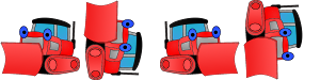
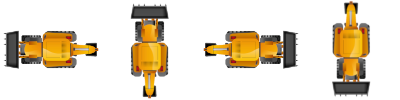
Digger has been transformed to renovation

diff --git a/assets/www/js/scenes/main.js b/assets/www/js/scenes/main.js
@@ -14,8 +14,12 @@ Crafty.scene("main", function() {
     for(var i = 0; i*Settings.poligon < Settings.width; i++) {
         console.log("Main scene ground")
         for(var j = 0; j*Settings.poligon < Settings.height; j++) {
-	    console.log("Main scene ground")
             Crafty.e("Sand").attr({x: i * Settings.poligon, y: j * Settings.poligon});
+        }
+    }
+    for(var i = 0; (i+1)*Settings.poligon < Settings.width; i++) {
+        console.log("Main scene ground")
+        for(var j = 0; (j+1)*Settings.poligon < Settings.height; j++) {
             if ((i + j > 0) && (Crafty.math.randomInt(0, 6) < 4)) {
                         Crafty.e("Ground").attr({
                             x: i * Settings.poligon,
@@ -32,13 +36,28 @@ Crafty.scene("main", function() {
                     y: j * Settings.poligon,// + 20,
                     w: Settings.poligon,// - 20,
                     h: Settings.poligon// - 20
-                    });
+                    }).update();
                 stonesCoords += joinCoord(i, j);
             }
-
         }
     }
     
+    if (Settings.level == 1) {
+        Crafty.e("Cargo").attr({
+            x: 1 * Settings.poligon,// + 10,
+            y: 0 * Settings.poligon,// + 10,
+            w: Settings.poligon,// - 20,
+            h: Settings.poligon// - 20
+            });
+    } else {
+        Crafty.e("Cargo").attr({
+            x: Crafty.math.randomInt(0, Settings.width / Settings.poligon - 1) * Settings.poligon,// + 10,
+            y: Crafty.math.randomInt(0, Settings.height / Settings.poligon - 1) * Settings.poligon,// + 10,
+            w: Settings.poligon,// - 20,
+            h: Settings.poligon// - 20
+            });
+    } 
+
     if (Settings.level % 2) {
         var x = 0;
         var y = 0;
@@ -58,10 +77,9 @@ Crafty.scene("main", function() {
 
     while (flower_count > 0) {
         //generate the grass along the x-axis
-        for(var i = 1; i*Settings.poligon < Settings.width; i++) {
-            //generate the grass along the y-axis
-	    console.log("Main scene flowers")
-            for(var j = 1; j*Settings.poligon < Settings.height; j++) {
+        for(var i = 0; (i+1)*Settings.poligon < Settings.width; i++) {
+            console.log("Main scene ground")
+            for(var j = 0; (j+1)*Settings.poligon < Settings.height; j++) {
                 if (stonesCoords.search(joinCoord(i, j)) >= 0)
                     continue;
                 if ((flower_count > 0) && (!Crafty.math.randomInt(0, 5))) {
@@ -84,6 +102,22 @@ Crafty.scene("main", function() {
             }
         }
     }
+
+    Crafty.e(Settings.sound ? "SoundButtonOff" : "SoundButtonOn").attr({
+        x: Settings.width - 2 * Settings.poligon,
+        y: Settings.height - 2 * Settings.poligon,
+        w: Settings.poligon,
+        h: Settings.poligon,
+        z: 1
+    });
+
+    Crafty.e("ResetButton").attr({
+        x: Settings.width - 3 * Settings.poligon,
+        y: Settings.height - 2 * Settings.poligon,
+        w: Settings.poligon,
+        h: Settings.poligon,
+        z: 1
+    });
 
     Crafty.e("Player").attr({x: 0, y: 0, z: 1, w: Settings.poligon, h: Settings.poligon});
 

diff --git a/assets/www/js/game.js b/assets/www/js/game.js
@@ -1,9 +1,9 @@
 var Settings = {
     width: 800, // ширина игрового поля
     height: 600, // высота
-    poligon: 80, // размер полигона 16x16
+    poligon: 100, // размер полигона 16x16
     scope: 0,
-    level: 2, // текущий уровень
+    level: 0, // текущий уровень
     speed: 1, // current monster speed
     flower_count: 0, // цветоков на уровне
     sound: true
@@ -19,6 +19,7 @@ var AllScripts = [
     // objects
     'js/objects/flower',
     'js/objects/stone',
+    'js/objects/cargo',
     'js/objects/ground',
     'js/objects/sand',
     'js/objects/cross',
@@ -30,6 +31,9 @@ var AllScripts = [
     'js/objects/monster',
     'js/objects/monster_sprite',
     'js/objects/scope',
+    'js/objects/resetbutton',
+    'js/objects/soundbuttonoff',
+    'js/objects/soundbuttonon',
     'js/objects/bonus',
     // scenes
     'js/scenes/loading',
@@ -57,18 +61,28 @@ require(AllScripts, function() {
         monster: [0,0]
     });
     // подгружаем спрайт
-    Crafty.sprite(Settings.poligon, "images/ground.jpg", {
+    Crafty.sprite(Settings.poligon, "images/soundon.png", {
+        soundon: [0,0]
+    });
+    Crafty.sprite(Settings.poligon, "images/soundoff.png", {
+        soundoff: [0,0]
+    });
+    Crafty.sprite(Settings.poligon, "images/restart.png", {
+        restart: [0,0]
+    });
+    // подгружаем спрайт
+    Crafty.sprite(Settings.poligon, "images/ground.png", {
         ground: [0,0]
     });
     Crafty.sprite(Settings.poligon, "images/sand.jpg", {
         sand: [0,0]
     });
     // подгружаем спрайт
-    Crafty.sprite(Settings.poligon, "images/granit1.jpg", {
-        granit1: [0,0]
+    Crafty.sprite(Settings.poligon, "images/cargo1.jpg", {
+        cargo1: [0,0]
     });
-    Crafty.sprite(Settings.poligon, "images/granit2.jpg", {
-        granit2: [0,0]
+    Crafty.sprite(Settings.poligon, "images/house.png", {
+        house: [0,0]
     });
     Crafty.sprite(Settings.poligon, "images/bag.png", {
         bag: [0,0]

diff --git a/assets/www/js/objects/cargo.js b/assets/www/js/objects/cargo.js
@@ -1,17 +1,16 @@
-Crafty.c('Stone', {
+Crafty.c('Cargo', {
     init: function() {
         this.requires("2D");
         this.requires("Canvas");
-        this.requires("house");
-        this.requires("hard_stone");
+        // this.requires("Gravity");
+        this.requires("cargo1");
         this.requires("hard_object");
-        this.requires("SpriteAnimation");
+        this.requires("hard_stone");
+        this.requires("Tween");
 
-        num = Crafty.math.randomInt(0, 7)
-        console.log('Crafty random: ' +  num)
-        this.animate("first", num, 0, num);
+        // this.gravity("hard_object");
         this.attr({x: 0, y: 0, z: 2, w: Settings.poligon, h: Settings.poligon});
-        this.animate("first", 1);        
+
     },
         
     isCanMoveTo: function(x, y) {
@@ -22,8 +21,5 @@ Crafty.c('Stone', {
         });
 
         return !isCollision
-    },
-    update: function() {
-        this.animate("first", 1);
     }
 });

diff --git a/assets/www/js/objects/soundbuttonoff.js b/assets/www/js/objects/soundbuttonoff.js
@@ -1,0 +1,26 @@
+Crafty.c('SoundButtonOff', {
+    init: function() {
+        this.requires("2D");
+        this.requires("DOM");
+        this.requires("soundon");
+        this.requires("Mouse");
+        this.attr({ w: 100, h: 100 })
+        this.bind("Click", function(){
+            console.log("OnClick");
+            this.Click()
+        });
+    },
+    Click: function() {
+        console.log("Sound on");
+        Sound().soundSwitch()
+        Settings.sound = false
+        Crafty.e("SoundButtonOn").attr({x: this.x, y: this.y});
+        this.clean();
+    },
+
+    clean: function () {
+        this.removeComponent('SoundButtonOff');
+        this.destroy();
+    }
+
+});

diff --git a/assets/www/js/objects/soundbuttonon.js b/assets/www/js/objects/soundbuttonon.js
@@ -1,0 +1,26 @@
+Crafty.c('SoundButtonOn', {
+    init: function() {
+        this.requires("2D");
+        this.requires("DOM");
+        this.requires("soundoff");
+        this.requires("Mouse");
+        this.attr({ w: 100, h: 100 })
+        this.bind("Click", function(){
+            console.log("OnClick");
+            this.Click()
+        });
+    },
+    Click: function() {
+        Sound().soundSwitch()
+        Settings.sound = true
+        console.log("Sound off");
+        Crafty.e("SoundButtonOff").attr({x: this.x, y: this.y});
+        this.clean();
+    },
+
+    clean: function () {
+        this.removeComponent('SoundButtonOn');
+        this.destroy();
+    }
+
+});

diff --git a/assets/www/js/objects/monster_sprite.js b/assets/www/js/objects/monster_sprite.js
@@ -3,10 +3,10 @@ Crafty.c('MonsterSprite', {
         this.requires("monster");
         this.requires("SpriteAnimation");
 
-        this.animate("walk_left", 0, 2, 1);
-        this.animate("walk_right", 0, 1, 1);
-        this.animate("walk_up", 0, 0, 1);
-        this.animate("walk_down", 0, 3, 1);
+        this.animate("walk_left", 0, 1, 3);
+        this.animate("walk_right", 0, 2, 3);
+        this.animate("walk_up", 0, 3, 3);
+        this.animate("walk_down", 0, 0, 3);
         
         var self = this;
         this.bind("Moved", function(e) {

diff --git a/assets/www/js/objects/donatebutton.js b/assets/www/js/objects/donatebutton.js
@@ -1,0 +1,22 @@
+Crafty.c('ResetButton', {
+    init: function() {
+        this.requires("2D");
+        this.requires("DOM");
+        this.requires("Mouse");
+        this.requires("donate");
+
+        this.attr({ w: 100, h: 100 })
+        this.bind("Click", function(){
+            console.log("donate on click");
+            this.Click()
+        });
+    },
+    Click: function() {
+        console.log("OnDonate");
+        Crafty.scene("lose");
+    },
+
+    clean: function () {
+        this.destroy();
+    }
+});

diff --git a/assets/www/js/objects/resetbutton.js b/assets/www/js/objects/resetbutton.js
@@ -1,0 +1,22 @@
+Crafty.c('ResetButton', {
+    init: function() {
+        this.requires("2D");
+        this.requires("DOM");
+        this.requires("Mouse");
+        this.requires("restart");
+
+        this.attr({ w: 100, h: 100 })
+        this.bind("Click", function(){
+            console.log("Reset on click");
+            this.Click()
+        });
+    },
+    Click: function() {
+        console.log("OnReset");
+        Crafty.scene("lose");
+    },
+
+    clean: function () {
+        this.destroy();
+    }
+});

diff --git a/assets/www/js/objects/ground.js b/assets/www/js/objects/ground.js
@@ -5,6 +5,13 @@ Crafty.c('Ground', {
         this.requires("ground");
         this.requires("hard_ground");
         this.requires("hard_object");
+        this.requires("SpriteAnimation");
+
+        num = Crafty.math.randomInt(0, 7)
+        console.log('Crafty random: ' +  num)
+        this.animate("first", num, 0, num);
+        this.attr({x: 0, y: 0, z: 2, w: Settings.poligon, h: Settings.poligon});
+        this.animate("first", 1);        
 
         this.attr({x: 0, y: 0});
     },

diff --git a/assets/www/menu.html b/assets/www/menu.html
@@ -18,9 +18,6 @@
             </div>
             <ul class="LeftColumn">
                 <li class="MenuItem">
-                    <a href='top.html'>Top</a>
-                </li>
-                <li class="MenuItem">
                     <a href='#' onClick='Sound().soundSwitch()' class="soundLabel">Sound</a>
                 </li>
                 <li class="MenuItem">
